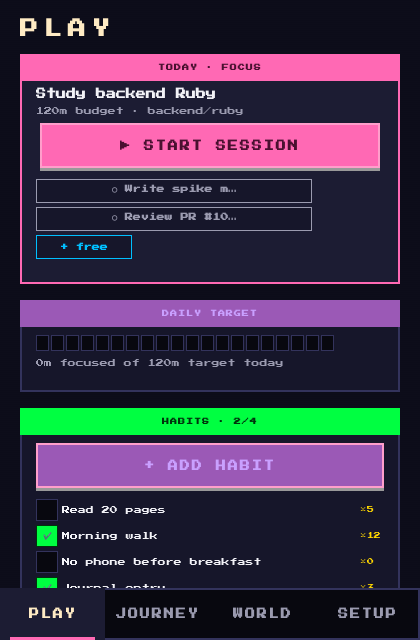
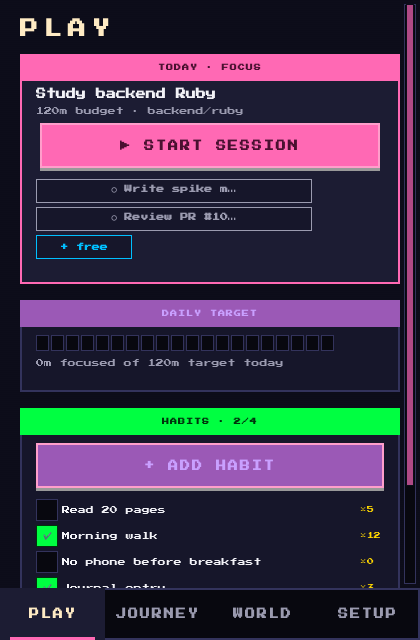
fix(#93): contain every Text inside its box — horizontal overflow sweep
Live walkthrough showed long text bleeding past the panel's right edge
and vanishing under the canvas clip — a WIDTH problem, not the vertical
scroll problem previously treated. Root cause: several Text items had no
width constraint at all, so they sized to natural content width and
painted outside card/panel bounds.

Systematic fix, every screen + primitive:

- StatChip: both layouts (full tile + compact chip) now bound their text
  to parent width with centered elide; a long value can never paint
  past the chip edge.
- BevelButton: label bounded to the face with elide instead of sizing
  the button implicitly beyond its container.
- ArcadeScreen: surface title gets width + elide.
- Journey: stat-tile Row -> Flow (chips wrap on narrow panels instead of
  summing wider than the panel); both XP meta lines constrained and
  wrapped/elided.
- World: landmark rows get width; title elides beside its marker.
- Setup: settings lines elide instead of running free.
- Recovery: started-line wraps.
- Play: recovery row's side text now derives from the button's REAL
  implicitWidth — the old constant reservation let this line paint past
  the card edge.

Evidence refreshed for all four surfaces at docs/evidence/v1/.
Tests 156/156.

diff --git a/arcade/screens/JourneyScreen.qml b/arcade/screens/JourneyScreen.qml
@@ -12,8 +12,8 @@ ArcadeScreen {
     property var fixture: FixtureLoader.load()
     readonly property var lvl: fixture ? FixtureLoader.levelProgress(fixture) : { have: 0, need: 1 }
 
-    // ── stat tiles ─────────────────────────────────────────────
-    Row {
+    // ── stat tiles — Flow so a narrow panel wraps instead of bleeding ──
+    Flow {
         width: parent.width
         spacing: Theme.space(2)
 
@@ -28,23 +28,27 @@ ArcadeScreen {
         spacing: 4
 
         Text {
+            width: parent.width
             text: "XP TO LEVEL " + (root.fixture.progression.level + 1) + " — "
                   + Math.round(100 * root.lvl.have / Math.max(1, root.lvl.need)) + "%"
             color: Theme.textMuted
             font.family: Theme.fontFamily
             font.pixelSize: Theme.typeTiny
+            elide: Text.ElideRight
         }
         SegmentedBar {
             width: parent.width - Theme.space(2)
             fraction: root.lvl.need > 0 ? Math.max(0, Math.min(1, root.lvl.have / root.lvl.need)) : 0
         }
         Text {
+            width: parent.width
             text: root.lvl.have + " / " + root.lvl.need + " XP · lifetime "
                   + root.fixture.progression.totals.lifetimeXp + " · season "
                   + root.fixture.progression.totals.seasonXp
             color: Theme.textMuted
             font.family: Theme.fontFamily
             font.pixelSize: Theme.typeBody
+            wrapMode: Text.WordWrap
         }
     }
 

diff --git a/arcade/StatChip.qml b/arcade/StatChip.qml
@@ -21,33 +21,45 @@ Rectangle {
         visible: !root.compact
         anchors.centerIn: parent
         spacing: 2
+        width: parent.width
 
         Text {
             anchors.horizontalCenter: parent.horizontalCenter
+            width: parent.width
             text: root.label
             color: Theme.textMuted
             font.family: Theme.fontFamily
             font.pixelSize: Theme.typeBody
             font.letterSpacing: 2
+            horizontalAlignment: Text.AlignHCenter
+            elide: Text.ElideRight
         }
         Text {
             id: valueText
             anchors.horizontalCenter: parent.horizontalCenter
+            width: parent.width
             text: root.value
             color: root.valueColor
             font.family: Theme.fontFamily
             font.pixelSize: Theme.typeHero
             font.bold: true
+            horizontalAlignment: Text.AlignHCenter
+            elide: Text.ElideRight
         }
     }
 
+    // compact chip: bounded to its box — a long value elides instead of
+    // painting past the chip edge (horizontal-overflow fix, #93)
     Text {
         visible: root.compact
+        width: parent.width - Theme.space(2)
+        anchors.centerIn: parent
         text: root.label + " " + root.value
         color: root.valueColor
         font.family: Theme.fontFamily
         font.pixelSize: Theme.typeBody
         font.bold: true
-        anchors.centerIn: parent
+        horizontalAlignment: Text.AlignHCenter
+        elide: Text.ElideRight
     }
 }

diff --git a/arcade/screens/WorldScreen.qml b/arcade/screens/WorldScreen.qml
@@ -57,12 +57,14 @@ ArcadeScreen {
                     wrapMode: Text.WordWrap
                 }
 
-                // landmarks under their province
+                // landmarks under their province — title elides inside the
+                // row so a long landmark name can never bleed off-card
                 Repeater {
                     model: root.fixture.story.landmarks.filter(
                                function(l){ return l.provinceId === modelData.id })
                     delegate: Row {
                         required property var modelData
+                        width: parent.width
                         spacing: Theme.space(1)
                         Text {
                             text: modelData.achieved ? "[★]" : "[·]"
@@ -70,10 +72,12 @@ ArcadeScreen {
                             font.pixelSize: Theme.typeBody
                         }
                         Text {
+                            width: parent.width - parent.children[0].width - Theme.space(1)
                             text: modelData.title
                             color: Theme.textMuted
                             font.family: Theme.fontFamily
                             font.pixelSize: Theme.typeBody
+                            elide: Text.ElideRight
                         }
                     }
                 }

diff --git a/arcade/screens/PlayScreen.qml b/arcade/screens/PlayScreen.qml
@@ -198,11 +198,16 @@ ArcadeScreen {
     }
 
     // ── recovery guarded entry (R4.4) ───────────────────────────
+    // text width derives from the button's REAL width (implicitWidth grows
+    // with the label); reserving a constant previously let this line paint
+    // past the card's right edge (#93 horizontal-overflow fix)
     Row {
+        id: recoveryRow
         width: parent.width
         spacing: Theme.space(2)
 
         BevelButton {
+            id: recoveryButton
             label: "RECOVERY"
             baseColor: Theme.arcadeBlue
             textColor: Theme.onBlue
@@ -214,7 +219,8 @@ ArcadeScreen {
             font.family: Theme.fontFamily
             font.pixelSize: Theme.typeTiny
             anchors.verticalCenter: parent.verticalCenter
-            width: parent.width - Theme.space(28)
+            width: recoveryRow.width - recoveryButton.width
+                   - Theme.space(4)
             wrapMode: Text.WordWrap
         }
     }

diff --git a/arcade/BevelButton.qml b/arcade/BevelButton.qml
@@ -40,12 +40,15 @@ Rectangle {
         Text {
             id: label_
             anchors.centerIn: parent
+            width: parent.width - Theme.space(2)   // never paint past the face
             text: root.label
             color: root.danger ? "#ffdad6" : (mouse.pressed ? "#ffebc4" : root.textColor)
             font.family: Theme.fontFamily
             font.pixelSize: Theme.typeTitle
             font.bold: true
             font.letterSpacing: 2
+            horizontalAlignment: Text.AlignHCenter
+            elide: Text.ElideRight
         }
     }
 

diff --git a/arcade/screens/SetupScreen.qml b/arcade/screens/SetupScreen.qml
@@ -83,6 +83,7 @@ ArcadeScreen {
                 color: Theme.textPrimary
                 font.family: Theme.fontFamily
                 font.pixelSize: Theme.typeBody
+                elide: Text.ElideRight
             }
             Text {
                 width: parent.width
@@ -90,6 +91,7 @@ ArcadeScreen {
                 color: Theme.textPrimary
                 font.family: Theme.fontFamily
                 font.pixelSize: Theme.typeBody
+                elide: Text.ElideRight
             }
             Text {
                 width: parent.width

diff --git a/arcade/ArcadeScreen.qml b/arcade/ArcadeScreen.qml
@@ -35,12 +35,14 @@ FocusScope {
 
         Text {
             visible: root.title.length > 0
+            width: parent.width
             text: root.title
             color: "#ffebc4"
             font.family: Theme.fontFamily
             font.pixelSize: Theme.typeHero
             font.bold: true
             font.letterSpacing: 6
+            elide: Text.ElideRight
         }
     }
 }

diff --git a/arcade/screens/RecoveryScreen.qml b/arcade/screens/RecoveryScreen.qml
@@ -43,6 +43,7 @@ ArcadeScreen {
                     color: Theme.textMuted
                     font.family: Theme.fontFamily
                     font.pixelSize: Theme.typeBody
+                    wrapMode: Text.WordWrap
                 }
 
                 Row {
